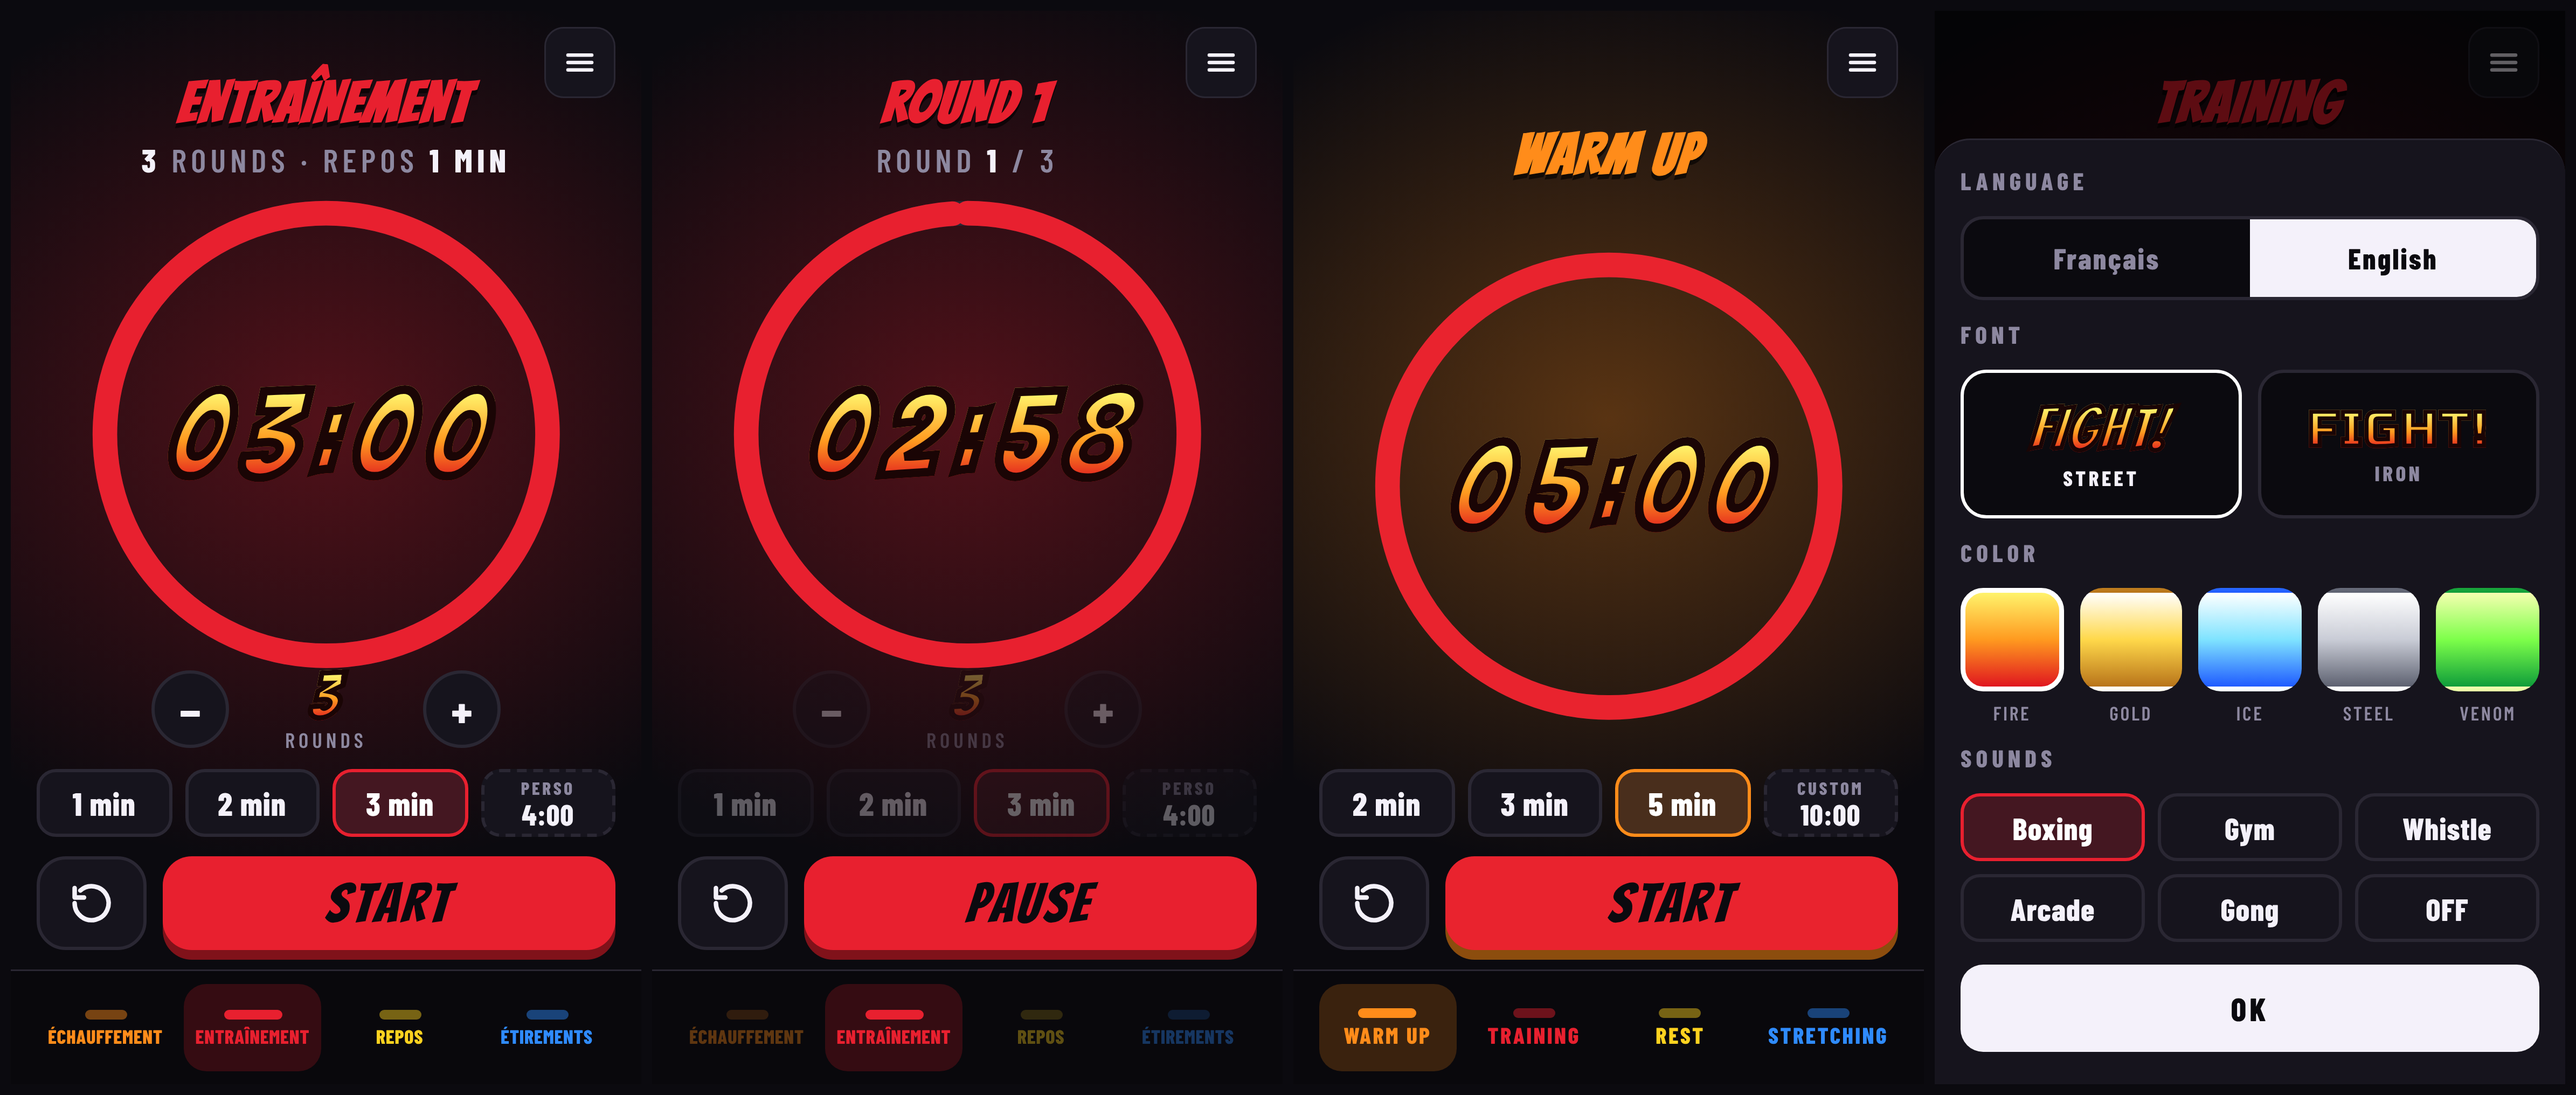
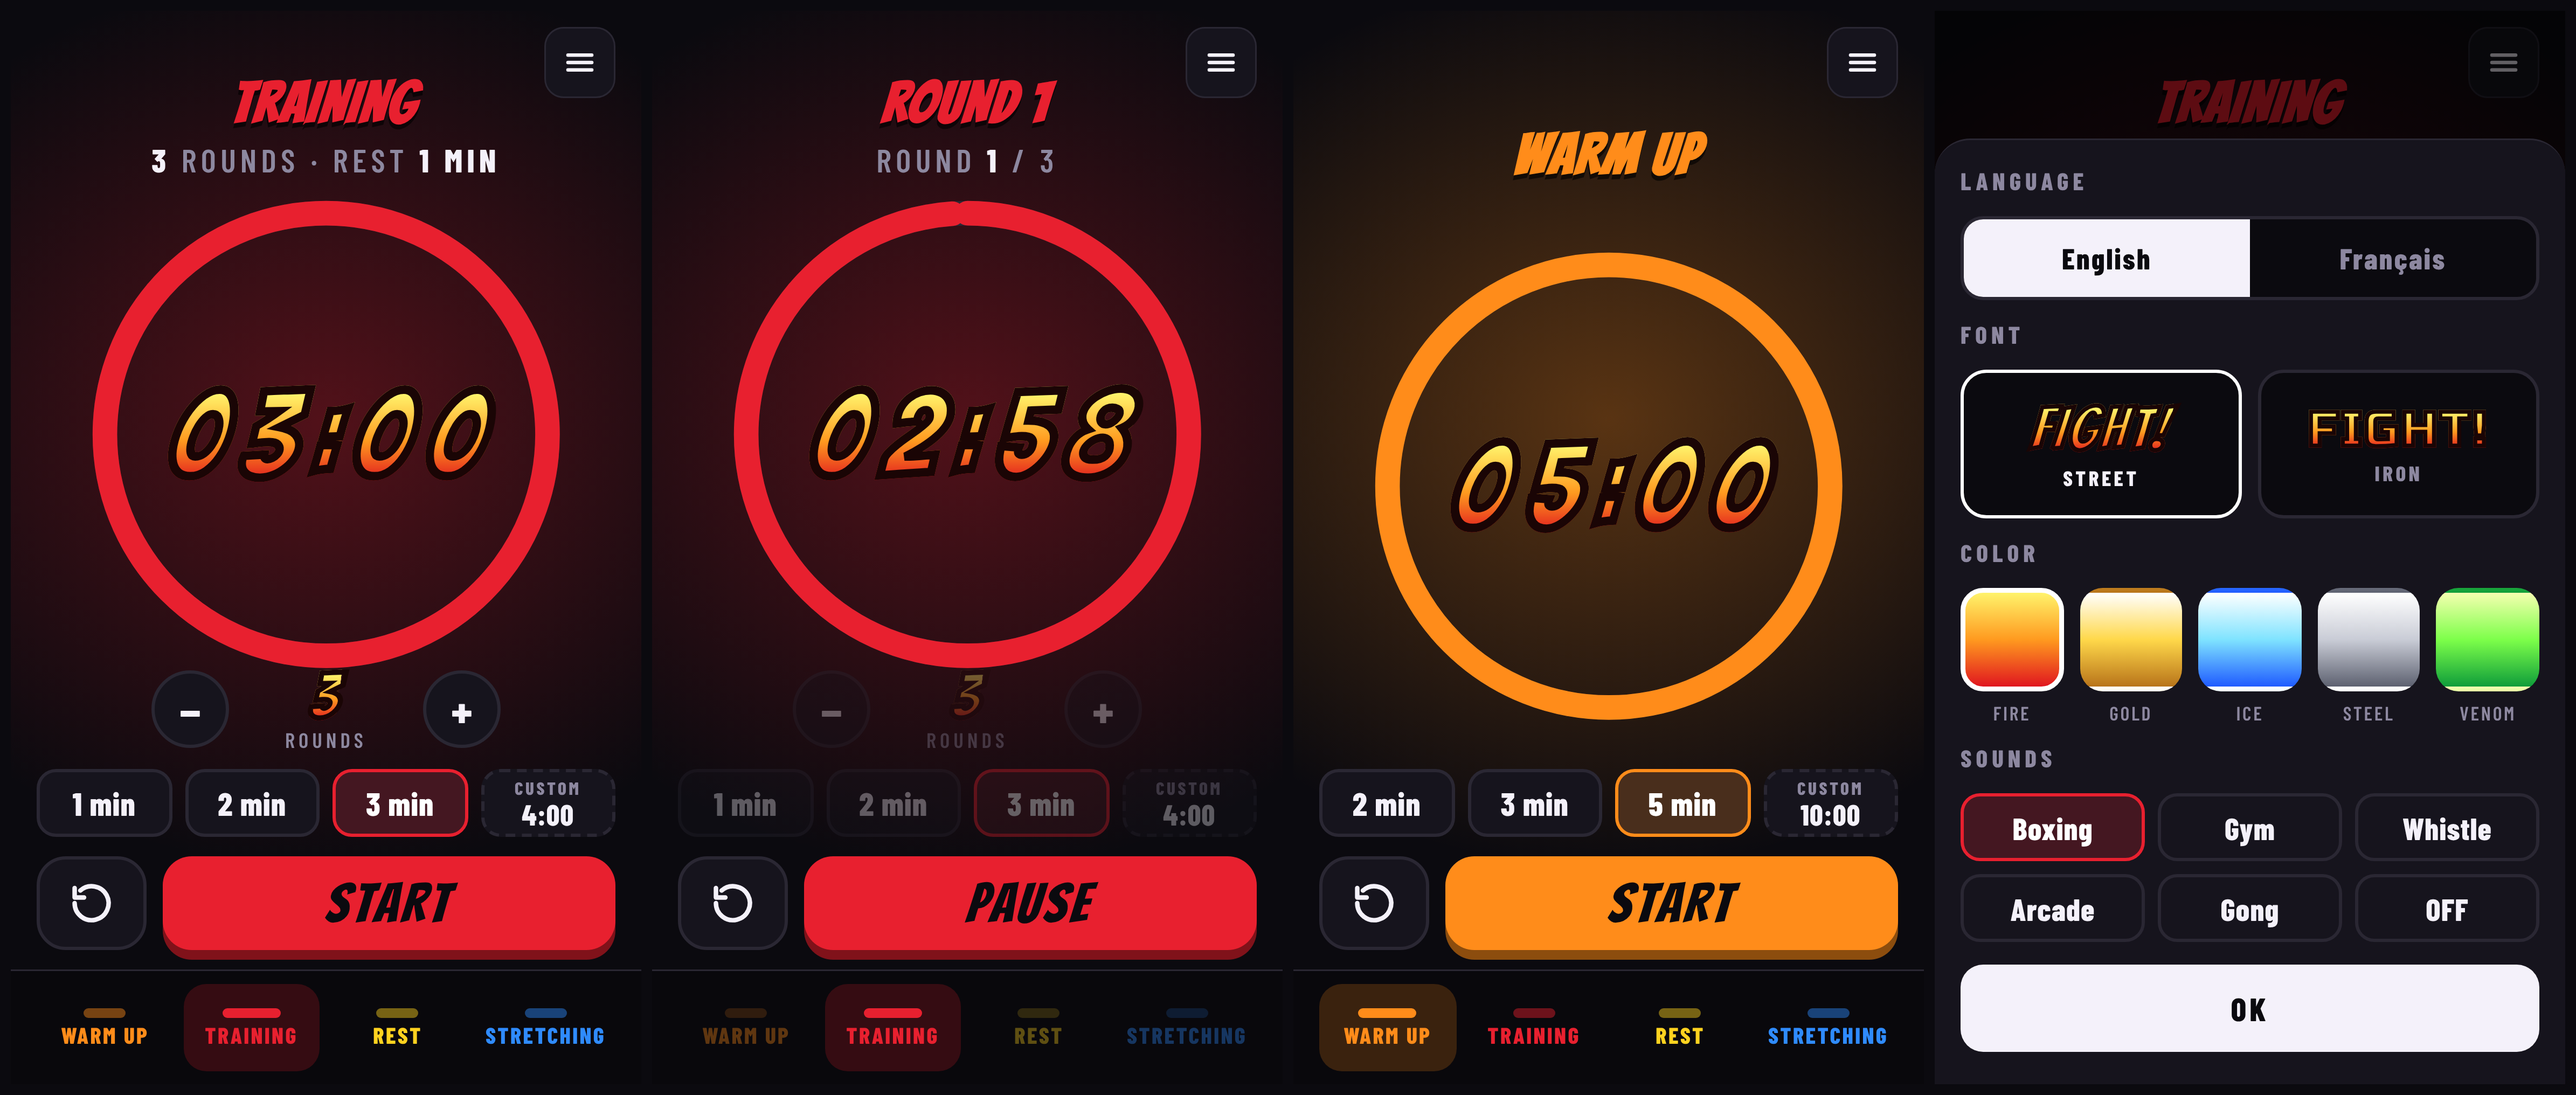
Make English the default language; English-only README and screenshots
Claude-Session: https://claude.ai/code/session_019NgDfqpZ4us13od4CkMkjE

diff --git a/docs/index.html b/docs/index.html
@@ -1,10 +1,10 @@
 <!doctype html>
-<html lang="fr">
+<html lang="en">
 <head>
 <meta charset="utf-8">
 <meta name="viewport" content="width=device-width, initial-scale=1, viewport-fit=cover">
 <title>Ring Timer</title>
-<meta name="description" content="Timer de boxe et d'entraînement : Warm up, Training, Rest, Stretching. Boxing & workout interval timer.">
+<meta name="description" content="Boxing & workout interval timer: Warm up, Training, Rest, Stretching.">
 <meta name="theme-color" content="#0b0a0f">
 <meta name="apple-mobile-web-app-capable" content="yes">
 <meta name="mobile-web-app-capable" content="yes">
@@ -267,7 +267,7 @@ button:focus-visible{outline:3px solid #fff; outline-offset:2px}
   <div class="sheet wrap" role="dialog" aria-label="Menu">
     <h2 data-i18n="language">Langue</h2>
     <div class="lang" id="lang" role="group" aria-label="Langue / Language">
-      <button data-l="fr">Français</button><button data-l="en">English</button>
+      <button data-l="en">English</button><button data-l="fr">Français</button>
     </div>
     <h2 data-i18n="font">Police</h2>
     <div class="font-opts">
@@ -357,7 +357,7 @@ button:focus-visible{outline:3px solid #fff; outline-offset:2px}
 
   const $ = id => document.getElementById(id);
   const st = {mode:"training", rounds:3, font:"street", pal:"feu", sound:true, pack:"boxe",
-    lang: /^fr/i.test(navigator.language||"") ? "fr" : "en"};
+    lang: "en"};
   try { Object.assign(st, JSON.parse(localStorage.getItem("ringtimer")||"{}")); } catch(e){}
   try { const d = JSON.parse(localStorage.getItem("ringtimer-durs")||"{}"); for (const k in d) if (MODES[k]) MODES[k].dur = d[k]; } catch(e){}
   try { const d = JSON.parse(localStorage.getItem("ringtimer-modes")||"{}"); for (const k in d) if (MODES[k]) {

diff --git a/ios/RingTimer/Settings.swift b/ios/RingTimer/Settings.swift
@@ -26,8 +26,7 @@ final class Settings: ObservableObject {
         palette = Palette(rawValue: s.string(forKey: "palette") ?? "") ?? .feu
         sound = s.object(forKey: "sound") as? Bool ?? true
         pack = SoundPack(rawValue: s.string(forKey: "pack") ?? "") ?? .boxe
-        let deviceIsFrench = Locale.preferredLanguages.first?.lowercased().hasPrefix("fr") ?? false
-        lang = Lang(rawValue: s.string(forKey: "lang") ?? "") ?? (deviceIsFrench ? .fr : .en)
+        lang = Lang(rawValue: s.string(forKey: "lang") ?? "") ?? .en
         durations = s.dictionary(forKey: "durations") as? [String: Int] ?? [:]
         customs = s.dictionary(forKey: "customs") as? [String: Int] ?? [:]
         customOn = s.dictionary(forKey: "customOn") as? [String: Bool] ?? [:]

diff --git a/ios/RingTimer/Models.swift b/ios/RingTimer/Models.swift
@@ -30,10 +30,10 @@ enum Mode: String, CaseIterable, Identifiable {
 
     var color: Color {
         switch self {
-        case .warmup: return Color(hex: 0xFF8C1A)   // jaune orangé
-        case .training: return Color(hex: 0xE8202F) // rouge
-        case .rest: return Color(hex: 0xFFD21F)     // jaune
-        case .stretch: return Color(hex: 0x2F8BFF)  // bleu
+        case .warmup: return Color(hex: 0xFF8C1A)   // orange-yellow
+        case .training: return Color(hex: 0xE8202F) // red
+        case .rest: return Color(hex: 0xFFD21F)     // yellow
+        case .stretch: return Color(hex: 0x2F8BFF)  // blue
         }
     }
 

diff --git a/ios/RingTimer/Localization.swift b/ios/RingTimer/Localization.swift
@@ -1,7 +1,7 @@
 import Foundation
 
 enum Lang: String, CaseIterable, Identifiable {
-    case fr, en
+    case en, fr
     var id: String { rawValue }
 }
 

diff --git a/README.md b/README.md
@@ -1,91 +1,58 @@
 # 🥊 Ring Timer
 
-**Timer de boxe et d'entraînement, gratuit et en code ouvert.**
-**Free, source-available boxing & workout timer. Not for sale.**
+**A free, dead-simple boxing & workout interval timer. Not for sale.**
 
 ![Ring Timer](screenshots/preview.png)
 
-[Français](#français) · [English](#english)
+**Try it:** https://jpx2882.github.io/ring-timer
 
----
+## Features
 
-## Français
-
-Un timer ultra simple pour la boxe, la muscu et le cardio.
-
-- **4 modes** en bas de l'écran : Échauffement (orange), Entraînement (rouge), Repos (jaune), Étirements (bleu)
-- **Rounds** réglables avec − / +, repos automatique entre les rounds
-- **Presets** de temps en un tap, plus un bouton **Perso** pour régler le temps au choix
-- **Style jeu de combat** : 2 polices (Street, Iron) et 5 couleurs de texte
-- **5 ambiances sonores** : Boxe, Muscu, Sifflet, Arcade, Gong
-- **Français / English**
-- Tout est **sauvegardé** sur l'appareil. Aucune pub, aucun compte, aucune donnée collectée.
-
-### Utiliser la version web (iPhone, Android, ordinateur)
-Ouvre le lien GitHub Pages du projet dans Safari, puis **Partager → Sur l'écran d'accueil**.
-L'app s'ouvre en plein écran et marche sans internet.
-
-### Installer l'app iPhone (Xcode)
-Il faut un Mac avec Xcode 16 ou plus récent.
-1. Ouvre `ios/RingTimer.xcodeproj`.
-2. **Signing & Capabilities → Team** : choisis ton identifiant Apple. Si besoin, change le *Bundle Identifier*.
-3. Branche ton iPhone, active le **Mode développeur** (Réglages → Confidentialité et sécurité).
-4. Choisis ton iPhone en haut d'Xcode et clique sur ▶.
-
-Avec un compte Apple gratuit, l'app doit être réinstallée tous les 7 jours.
-
-### Contribuer
-Les idées, bugs et améliorations sont les bienvenus : ouvre une *issue* ou une *pull request*.
-
----
-
-## English
-
-A dead-simple timer for boxing, gym and cardio.
-
-- **4 modes** at the bottom: Warm up (orange), Training (red), Rest (yellow), Stretching (blue)
-- Adjustable **rounds** with − / +, automatic rest between rounds
+- **4 modes** at the bottom of the screen: Warm up (orange), Training (red), Rest (yellow), Stretching (blue)
+- Adjustable **rounds** with − / +, with automatic rest between rounds
 - One-tap time **presets**, plus a **Custom** button for any time
-- **Fighting-game style**: 2 fonts (Street, Iron) and 5 text colors
-- **5 sound themes**: Boxing, Gym, Whistle, Arcade, Gong
-- **English / Français**
-- Everything is **saved** on the device. No ads, no account, no data collected.
+- **Fighting-game style**: 2 fonts (Street, Iron) and 5 text colors (Fire, Gold, Ice, Steel, Venom)
+- **5 sound themes**: Boxing bell, Gym buzzer, Whistle, Arcade, Gong
+- 3-2-1 countdown, 10-second warning, screen stays on while the timer runs
+- **English / French**
+- Everything is **saved** on your device. No ads, no account, no data collected.
 
-### Web version (iPhone, Android, desktop)
-Open the project's GitHub Pages link in Safari, then **Share → Add to Home Screen**.
-It runs full screen and works offline.
+## Install on your phone (web app)
 
-### iPhone app (Xcode)
+1. Open https://jpx2882.github.io/ring-timer in Safari (iPhone) or Chrome (Android).
+2. Tap **Share → Add to Home Screen**.
+3. Launch it from the icon: it runs full screen and works offline.
+
+## Build the iPhone app (Xcode)
+
 Requires a Mac with Xcode 16 or newer.
+
 1. Open `ios/RingTimer.xcodeproj`.
-2. **Signing & Capabilities → Team**: pick your Apple ID. Change the *Bundle Identifier* if needed.
-3. Plug in your iPhone and turn on **Developer Mode** (Settings → Privacy & Security).
+2. In **Signing & Capabilities → Team**, pick your Apple ID. Change the *Bundle Identifier* if Xcode says it is taken.
+3. Plug in your iPhone and turn on **Developer Mode** (Settings → Privacy & Security → Developer Mode).
 4. Select your iPhone at the top of Xcode and press ▶.
+5. If iOS blocks the app, go to Settings → General → VPN & Device Management and trust your developer profile.
 
-With a free Apple account the app must be reinstalled every 7 days.
+With a free Apple account, the app must be reinstalled from Xcode every 7 days.
 
-### Contributing
+## Project structure
+
+```
+docs/          Web app (installable PWA, works offline), served by GitHub Pages
+ios/           Native SwiftUI app (Xcode project, iOS 17+)
+screenshots/   Images used in this README
+```
+
+## Contributing
+
 Ideas, bug reports and improvements are welcome: open an issue or a pull request.
 
----
+## License
 
-## Structure
+The code is licensed under [PolyForm Noncommercial 1.0.0](LICENSE.md).
 
-```
-docs/   Web app (installable, works offline) — served by GitHub Pages
-ios/    Native SwiftUI app (Xcode project)
-```
+- ✅ You may use it, install it on your own devices, modify it and share it **for free**.
+- ❌ **Selling it, or any other commercial use, is not allowed.**
+- If you share a modified version, please use a different name and icon.
 
-## Licence / License
-
-**FR** : le code est sous licence [PolyForm Noncommercial 1.0.0](LICENSE.md).
-Tu peux l'utiliser, l'installer sur ton iPhone, le modifier et le partager **gratuitement**.
-**Il est interdit de le vendre** ou de l'utiliser dans un but commercial.
-Si tu partages une version modifiée, utilise un autre nom et une autre icône.
-
-**EN**: the code is licensed under [PolyForm Noncommercial 1.0.0](LICENSE.md).
-You may use it, install it on your iPhone, modify it and share it **for free**.
-**Selling it or any commercial use is not allowed.**
-If you share a modified version, please use a different name and icon.
-
-Copyright (c) 2026 jpx2882. Fonts: SIL Open Font License 1.1.
+Copyright (c) 2026 jpx2882. Fonts (Bangers, Russo One, Barlow Condensed) are under the SIL Open Font License 1.1.
